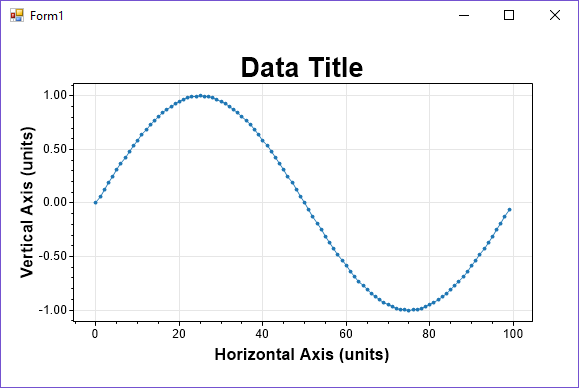
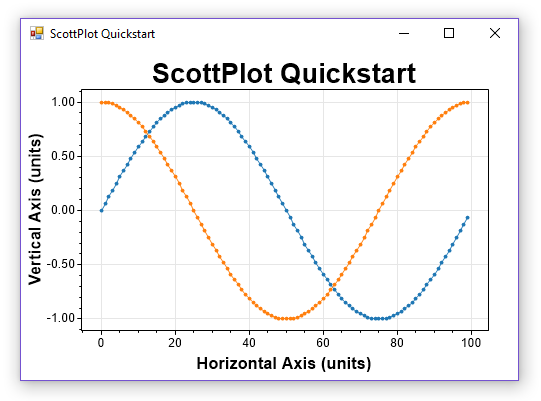
update quickstart

diff --git a/demos/ScottPlotDemos/FormMenu.Designer.cs b/demos/ScottPlotDemos/FormMenu.Designer.cs
@@ -34,11 +34,13 @@
             this.label1 = new System.Windows.Forms.Label();
             this.label2 = new System.Windows.Forms.Label();
             this.label3 = new System.Windows.Forms.Label();
+            this.button4 = new System.Windows.Forms.Button();
+            this.label4 = new System.Windows.Forms.Label();
             this.SuspendLayout();
             // 
             // button1
             // 
-            this.button1.Location = new System.Drawing.Point(12, 12);
+            this.button1.Location = new System.Drawing.Point(12, 85);
             this.button1.Name = "button1";
             this.button1.Size = new System.Drawing.Size(212, 23);
             this.button1.TabIndex = 0;
@@ -48,7 +50,7 @@
             // 
             // button2
             // 
-            this.button2.Location = new System.Drawing.Point(12, 77);
+            this.button2.Location = new System.Drawing.Point(12, 150);
             this.button2.Name = "button2";
             this.button2.Size = new System.Drawing.Size(212, 23);
             this.button2.TabIndex = 1;
@@ -58,7 +60,7 @@
             // 
             // button3
             // 
-            this.button3.Location = new System.Drawing.Point(12, 145);
+            this.button3.Location = new System.Drawing.Point(12, 218);
             this.button3.Name = "button3";
             this.button3.Size = new System.Drawing.Size(212, 23);
             this.button3.TabIndex = 2;
@@ -69,7 +71,7 @@
             // label1
             // 
             this.label1.AutoSize = true;
-            this.label1.Location = new System.Drawing.Point(12, 38);
+            this.label1.Location = new System.Drawing.Point(12, 111);
             this.label1.Name = "label1";
             this.label1.Size = new System.Drawing.Size(117, 13);
             this.label1.TabIndex = 3;
@@ -78,7 +80,7 @@
             // label2
             // 
             this.label2.AutoSize = true;
-            this.label2.Location = new System.Drawing.Point(12, 103);
+            this.label2.Location = new System.Drawing.Point(12, 176);
             this.label2.Name = "label2";
             this.label2.Size = new System.Drawing.Size(212, 13);
             this.label2.TabIndex = 4;
@@ -87,17 +89,38 @@
             // label3
             // 
             this.label3.AutoSize = true;
-            this.label3.Location = new System.Drawing.Point(12, 171);
+            this.label3.Location = new System.Drawing.Point(12, 244);
             this.label3.Name = "label3";
             this.label3.Size = new System.Drawing.Size(171, 13);
             this.label3.TabIndex = 5;
             this.label3.Text = "demonstrates even more plot types";
             // 
+            // button4
+            // 
+            this.button4.Location = new System.Drawing.Point(12, 12);
+            this.button4.Name = "button4";
+            this.button4.Size = new System.Drawing.Size(212, 23);
+            this.button4.TabIndex = 6;
+            this.button4.Text = "Quickstart";
+            this.button4.UseVisualStyleBackColor = true;
+            this.button4.Click += new System.EventHandler(this.button4_Click);
+            // 
+            // label4
+            // 
+            this.label4.AutoSize = true;
+            this.label4.Location = new System.Drawing.Point(12, 38);
+            this.label4.Name = "label4";
+            this.label4.Size = new System.Drawing.Size(140, 13);
+            this.label4.TabIndex = 7;
+            this.label4.Text = "result of the quickstart guide";
+            // 
             // FormMenu
             // 
             this.AutoScaleDimensions = new System.Drawing.SizeF(6F, 13F);
             this.AutoScaleMode = System.Windows.Forms.AutoScaleMode.Font;
-            this.ClientSize = new System.Drawing.Size(240, 197);
+            this.ClientSize = new System.Drawing.Size(240, 270);
+            this.Controls.Add(this.label4);
+            this.Controls.Add(this.button4);
             this.Controls.Add(this.label3);
             this.Controls.Add(this.label2);
             this.Controls.Add(this.label1);
@@ -119,5 +142,7 @@
         private System.Windows.Forms.Label label1;
         private System.Windows.Forms.Label label2;
         private System.Windows.Forms.Label label3;
+        private System.Windows.Forms.Button button4;
+        private System.Windows.Forms.Label label4;
     }
 }

diff --git a/demos/ScottPlotDemos/FormQuickstart.Designer.cs b/demos/ScottPlotDemos/FormQuickstart.Designer.cs
@@ -1,0 +1,61 @@
+namespace ScottPlotDemos
+{
+    partial class FormQuickstart
+    {
+        /// <summary>
+        /// Required designer variable.
+        /// </summary>
+        private System.ComponentModel.IContainer components = null;
+
+        /// <summary>
+        /// Clean up any resources being used.
+        /// </summary>
+        /// <param name="disposing">true if managed resources should be disposed; otherwise, false.</param>
+        protected override void Dispose(bool disposing)
+        {
+            if (disposing && (components != null))
+            {
+                components.Dispose();
+            }
+            base.Dispose(disposing);
+        }
+
+        #region Windows Form Designer generated code
+
+        /// <summary>
+        /// Required method for Designer support - do not modify
+        /// the contents of this method with the code editor.
+        /// </summary>
+        private void InitializeComponent()
+        {
+            this.scottPlotUC1 = new ScottPlotDev2.ScottPlotUC();
+            this.SuspendLayout();
+            // 
+            // scottPlotUC1
+            // 
+            this.scottPlotUC1.BackgroundImageLayout = System.Windows.Forms.ImageLayout.Stretch;
+            this.scottPlotUC1.Dock = System.Windows.Forms.DockStyle.Fill;
+            this.scottPlotUC1.Location = new System.Drawing.Point(0, 0);
+            this.scottPlotUC1.Name = "scottPlotUC1";
+            this.scottPlotUC1.Size = new System.Drawing.Size(497, 331);
+            this.scottPlotUC1.TabIndex = 0;
+            // 
+            // FormQuickstart
+            // 
+            this.AutoScaleDimensions = new System.Drawing.SizeF(6F, 13F);
+            this.AutoScaleMode = System.Windows.Forms.AutoScaleMode.Font;
+            this.BackColor = System.Drawing.Color.White;
+            this.ClientSize = new System.Drawing.Size(497, 331);
+            this.Controls.Add(this.scottPlotUC1);
+            this.Name = "FormQuickstart";
+            this.Text = "ScottPlot Quickstart";
+            this.Load += new System.EventHandler(this.FormQuickstart_Load);
+            this.ResumeLayout(false);
+
+        }
+
+        #endregion
+
+        private ScottPlotDev2.ScottPlotUC scottPlotUC1;
+    }
+}

diff --git a/demos/ScottPlotDemos/FormQuickstart.cs b/demos/ScottPlotDemos/FormQuickstart.cs
@@ -1,0 +1,42 @@
+using System;
+using System.Collections.Generic;
+using System.ComponentModel;
+using System.Data;
+using System.Drawing;
+using System.Linq;
+using System.Text;
+using System.Threading.Tasks;
+using System.Windows.Forms;
+
+namespace ScottPlotDemos
+{
+    public partial class FormQuickstart : Form
+    {
+        public FormQuickstart()
+        {
+            InitializeComponent();
+        }
+
+        private void FormQuickstart_Load(object sender, EventArgs e)
+        {
+            // create some data to plot
+            int pointCount = 100;
+            double[] dataXs = new double[pointCount];
+            double[] dataSin = new double[pointCount];
+            double[] dataCos = new double[pointCount];
+            for (int i = 0; i < pointCount; i++)
+            {
+                dataXs[i] = i;
+                dataSin[i] = Math.Sin(i * 2 * Math.PI / pointCount);
+                dataCos[i] = Math.Cos(i * 2 * Math.PI / pointCount);
+            }
+
+            // plot the data
+            scottPlotUC1.plt.data.AddScatter(dataXs, dataSin);
+            scottPlotUC1.plt.data.AddScatter(dataXs, dataCos);
+            scottPlotUC1.plt.settings.AxisFit();
+            scottPlotUC1.plt.settings.title = "ScottPlot Quickstart";
+            scottPlotUC1.Render();
+        }
+    }
+}

diff --git a/demos/ScottPlotDemos/FormMenu.cs b/demos/ScottPlotDemos/FormMenu.cs
@@ -34,5 +34,11 @@ namespace ScottPlotDemos
             var f = new FormMisc();
             f.ShowDialog();
         }
+
+        private void button4_Click(object sender, EventArgs e)
+        {
+            var f = new FormQuickstart();
+            f.ShowDialog();
+        }
     }
 }

diff --git a/README.md b/README.md
@@ -23,17 +23,21 @@ To create a Windows Form Application to display data with ScottPlot, perform the
 ```cs
 // create some data to plot
 int pointCount = 100;
-double[] xs = new double[pointCount];
-double[] ys = new double[pointCount];
-for (int i=0; i< pointCount; i++)
+double[] dataXs = new double[pointCount];
+double[] dataSin = new double[pointCount];
+double[] dataCos = new double[pointCount];
+for (int i = 0; i < pointCount; i++)
 {
-    xs[i] = i;
-    ys[i] = Math.Sin(i * 2 * Math.PI / pointCount);
+	dataXs[i] = i;
+	dataSin[i] = Math.Sin(i * 2 * Math.PI / pointCount);
+	dataCos[i] = Math.Cos(i * 2 * Math.PI / pointCount);
 }
 
 // plot the data
-scottPlotUC1.plt.data.AddScatter(xs, ys);
+scottPlotUC1.plt.data.AddScatter(dataXs, dataSin);
+scottPlotUC1.plt.data.AddScatter(dataXs, dataCos);
 scottPlotUC1.plt.settings.AxisFit();
+scottPlotUC1.plt.settings.title = "ScottPlot Quickstart";
 scottPlotUC1.Render();
 ```
 
